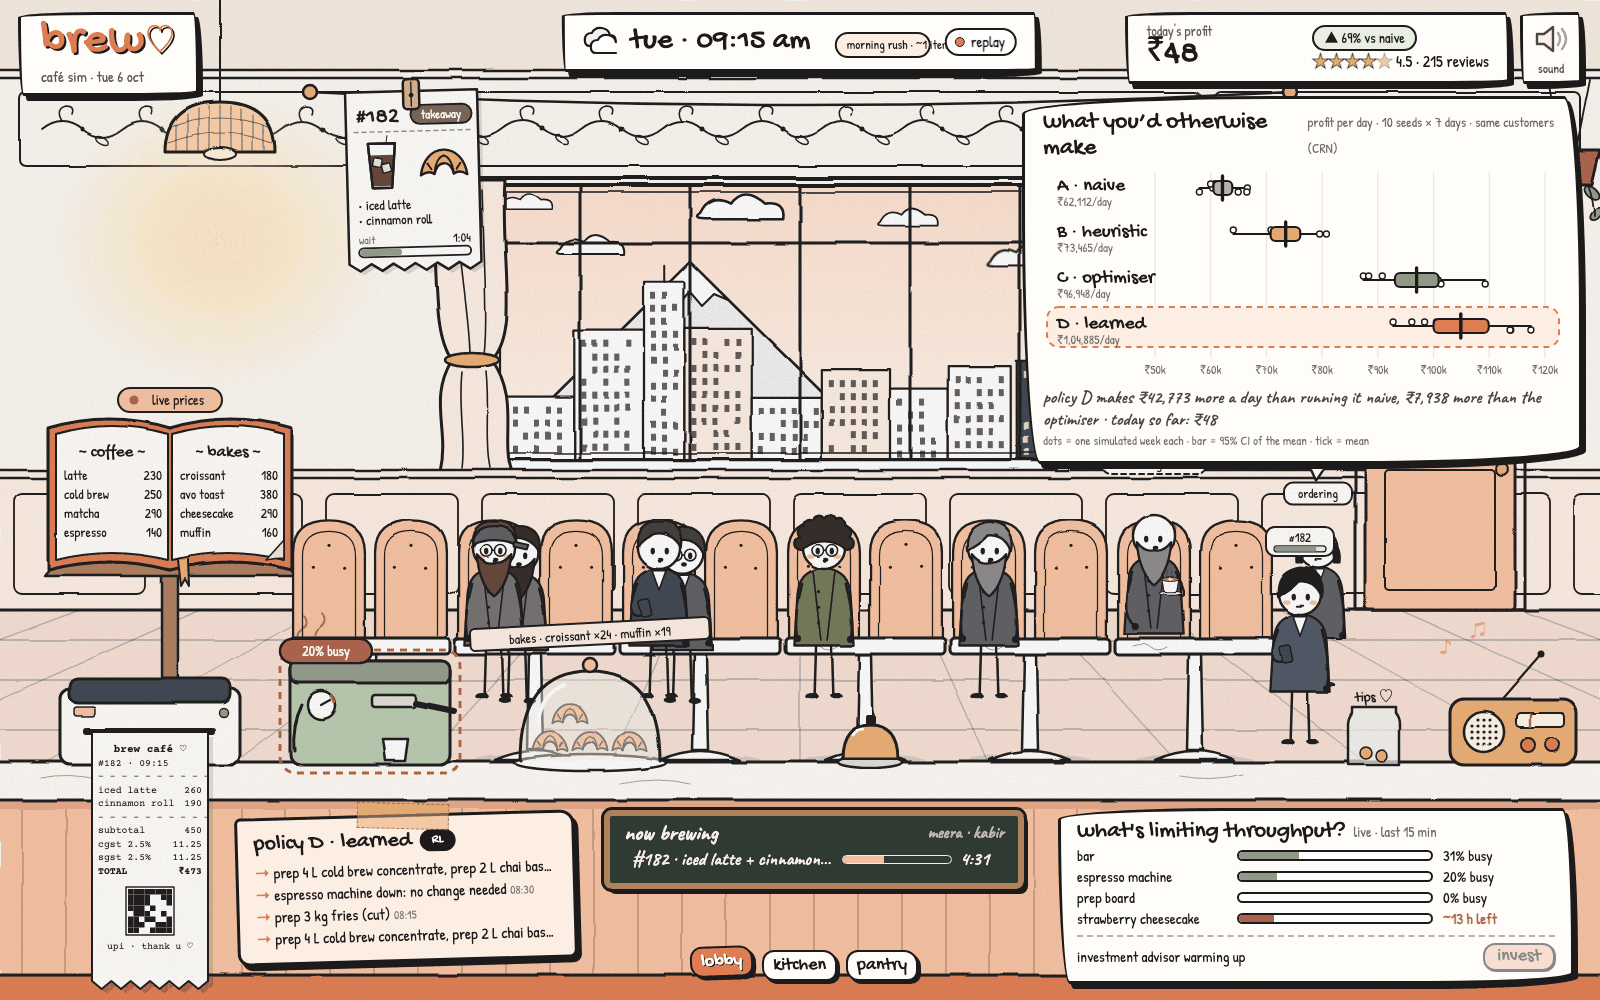
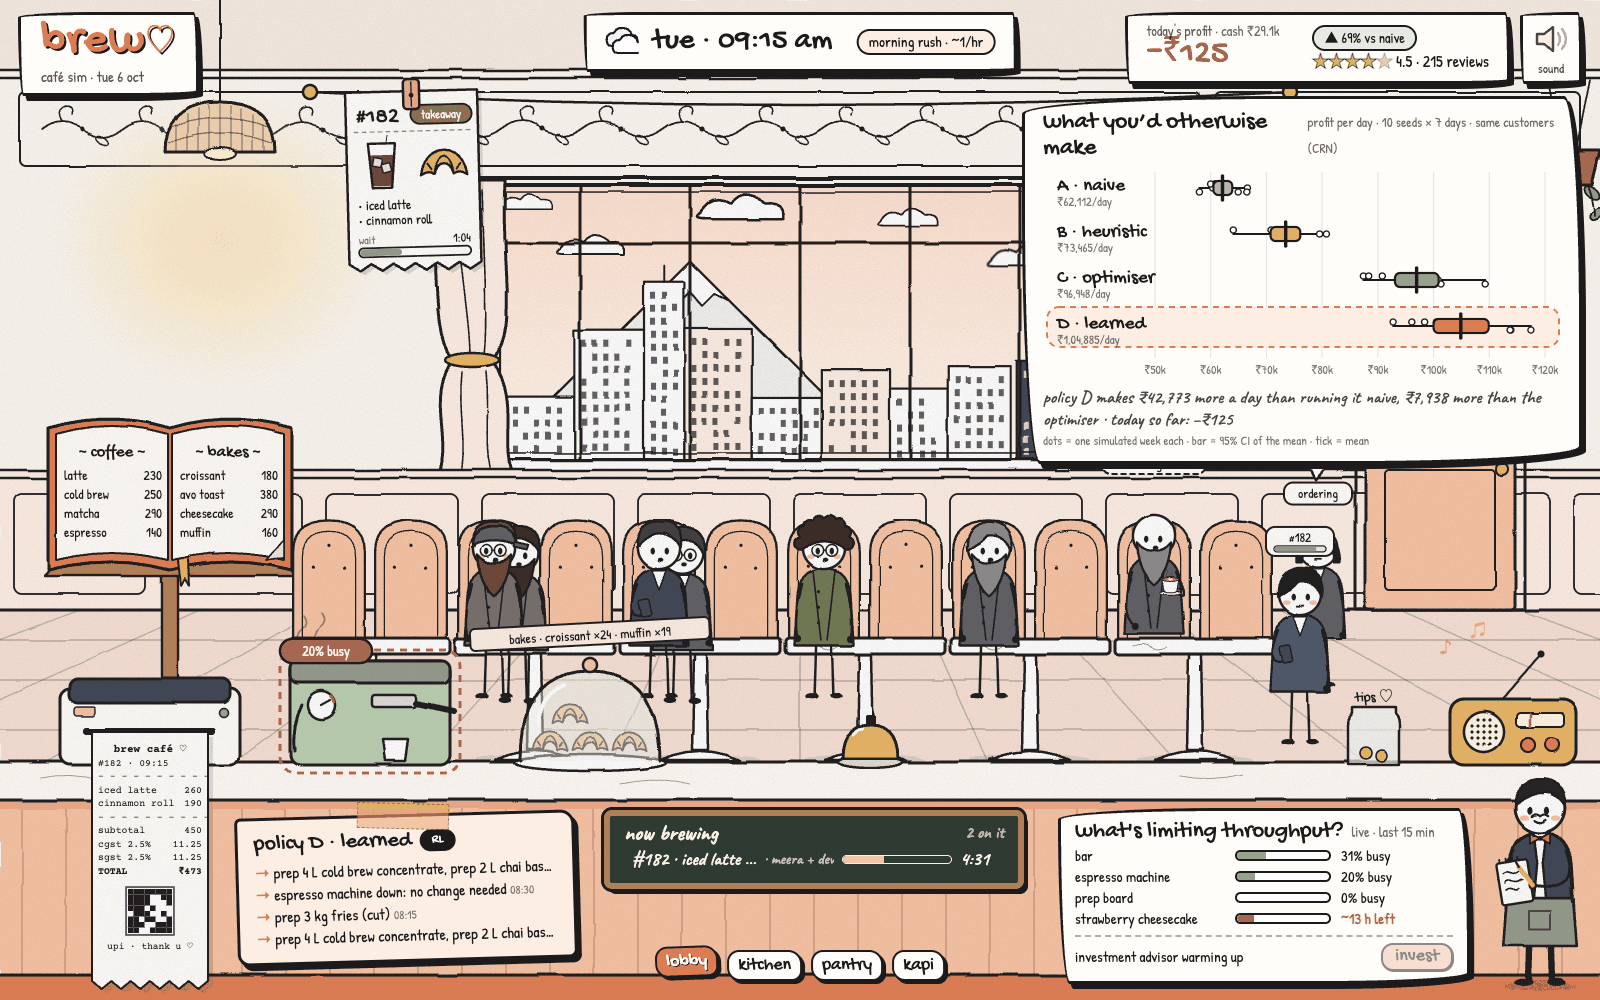
README media regenerated from the current UI (four tabs, the kapi doodle and the rider in the lobby, the HUD without the live pill, cash by the profit), plus a new shot of kapi's room in the screens table; capture script: --channel uses an installed browser, the page is served in-process with a larg

diff --git a/scripts/capture_readme_media.py b/scripts/capture_readme_media.py
@@ -2,8 +2,10 @@
 
     uv run python scripts/capture_readme_media.py            # stills + GIFs
     uv run python scripts/capture_readme_media.py --stills   # stills only
+    uv run python scripts/capture_readme_media.py --channel chrome   # the installed Chrome, no `playwright install`
 
-Stills: the real page (design/brew.html) replaying a golden stream paused at a fixed moment (`speed=0` + `stepTo`),
+Kapi's room is the one live shot: a throwaway backend (scripted waiter, no keys) is started for it. The other
+stills: the real page (design/brew.html) replaying a golden stream paused at a fixed moment (`speed=0` + `stepTo`),
 `?still` (no motion), 1600x1000, saved as 256-colour PNGs. GIFs: the same page with motion on; Python advances the
 replay in fixed sim-time steps per frame (events are deterministic) while the CSS motion runs in real time between
 frames, then Pillow assembles the frames (shared palette, 960 px wide, ~8 fps). No ffmpeg needed. Google Fonts must
@@ -14,10 +16,13 @@ from __future__ import annotations
 
 import argparse
 import io
-import socket
+import os
 import subprocess
-import sys
+import threading
 import time
+import urllib.request
+from functools import partial
+from http.server import SimpleHTTPRequestHandler, ThreadingHTTPServer
 from pathlib import Path
 from typing import Any
 
@@ -34,10 +39,19 @@ def hms(s: str) -> float:
     return int(h) * 3600 + int(m) * 60
 
 
-def free_port() -> int:
-    with socket.socket() as s:
-        s.bind(("127.0.0.1", 0))
-        return int(s.getsockname()[1])
+class Quiet(SimpleHTTPRequestHandler):
+    def log_message(self, *a: Any) -> None:
+        pass
+
+
+class Server(ThreadingHTTPServer):
+    request_queue_size = 128  # the page opens many connections at once; the default backlog (5) resets some
+
+
+def serve() -> Server:
+    srv = Server(("127.0.0.1", 0), partial(Quiet, directory=str(ROOT)))
+    threading.Thread(target=srv.serve_forever, daemon=True).start()
+    return srv
 
 
 def open_page(browser: Any, base: str, fixture: str, still: bool, room: str = "lobby") -> Any:
@@ -92,6 +106,7 @@ def stills(browser: Any, base: str) -> None:
     pg = open_page(browser, base, "lunch_delivery", True, "pantry")
     pg.evaluate(f"BrewLive.source.stepTo({hms('13:30')})")
     pg.wait_for_timeout(800)
+    pg.evaluate("document.querySelectorAll('#viewport > .toast').forEach((x) => x.remove())")  # (a profit milestone)
     save_png(shot(pg), "pantry")
     pg.close()
 
@@ -103,6 +118,37 @@ def stills(browser: Any, base: str) -> None:
     pg.wait_for_timeout(430)
     save_png(shot(pg), "menu_turn")
     pg.close()
+
+
+def kapi(browser: Any) -> None:
+    """Kapi's room needs a café that answers: a throwaway backend (scripted waiter, no keys, no database)."""
+    print("kapi")
+    with ThreadingHTTPServer(("127.0.0.1", 0), Quiet) as probe:
+        port = probe.server_address[1]
+    env = {**os.environ, "BREW_LLM_ENABLED": "0", "BREW_DB_ENABLED": "0", "BREW_HOURS": "00:00-24:00"}
+    api = subprocess.Popen(["uv", "run", "brew-api", "--port", str(port)], cwd=ROOT, env=env,
+                           stdout=subprocess.DEVNULL, stderr=subprocess.DEVNULL)  # fmt: skip
+    base = f"http://127.0.0.1:{port}"
+    try:
+        for _ in range(120):
+            try:
+                urllib.request.urlopen(f"{base}/api/v1/waiter/status", timeout=1)
+                break
+            except OSError:
+                time.sleep(0.5)
+        pg = browser.new_page(viewport=VIEW, device_scale_factor=1)
+        pg.goto(f"{base}/?still#waiter")
+        pg.wait_for_function("window.BrewLive && BrewLive.state && window.BrewWaiter && BrewWaiter.isOpen", timeout=30000)
+        pg.evaluate("document.fonts.ready")
+        pg.wait_for_timeout(1500)
+        for line in ("show me the bakes", "a butter croissant and an oat latte please"):
+            pg.evaluate("(m) => { BrewWaiter.send(m); }", line)
+            pg.wait_for_function("!BrewWaiter.busy", timeout=30000)
+            pg.wait_for_timeout(800)
+        save_png(shot(pg), "kapi")
+        pg.close()
+    finally:
+        api.terminate()
 
 
 def gif_replay(browser: Any, base: str, fixture: str, room: str, start: str, sim_per_frame: float, n: int, name: str, setup: str = "") -> None:
@@ -145,22 +191,21 @@ def gifs(browser: Any, base: str) -> None:
 def main() -> None:
     ap = argparse.ArgumentParser()
     ap.add_argument("--stills", action="store_true", help="stills only")
+    ap.add_argument("--channel", help="use an installed browser (e.g. chrome) instead of Playwright's own Chromium")
     a = ap.parse_args()
     OUT.mkdir(parents=True, exist_ok=True)
-    port = free_port()
-    srv = subprocess.Popen([sys.executable, "-m", "http.server", str(port), "--bind", "127.0.0.1"], cwd=ROOT,
-                           stdout=subprocess.DEVNULL, stderr=subprocess.DEVNULL)  # fmt: skip
-    time.sleep(0.6)
+    srv = serve()
     try:
         with sync_playwright() as p:
-            b = p.chromium.launch()
-            base = f"http://127.0.0.1:{port}"
+            b = p.chromium.launch(channel=a.channel)
+            base = f"http://127.0.0.1:{srv.server_address[1]}"
             stills(b, base)
+            kapi(b)
             if not a.stills:
                 gifs(b, base)
             b.close()
     finally:
-        srv.terminate()
+        srv.shutdown()
 
 
 if __name__ == "__main__":

diff --git a/README.md b/README.md
@@ -46,8 +46,8 @@ statement.
 | **Pantry**: every lot with its freshness, FEFO arrows, days of cover, the waste chart against naive, and the policy's own purchase order to approve. | **Menu book**: flies off the lectern with real 3D page turns; live prices are struck through in ink and rewritten; meal combos and the rescue shelf have their own spreads. |
 | ![the profit card expanded into the policy comparison](docs/images/comparison.png) | ![the kitchen GIF](docs/images/kitchen_chaos.gif) |
 | **What you'd otherwise make**: click today's profit and it unfolds into D vs A/B/C: one dot per simulated week, 95 % CI of the mean. | **Chaos, live**: the machine breaks at 08:30, the station LEDs and crew react, the re-plan lands within seconds. |
-
-<div align="center"><img src="docs/images/menu_book.gif" width="70%" alt="the owner's 09:00 price change rewritten in the open menu book, then a page turn" /></div>
+| ![kapi's room: the waiter, his speech bubble and the bakes on the board as cards](docs/images/kapi.png) | ![the owner's 09:00 price change rewritten in the open menu book, then a page turn](docs/images/menu_book.gif) |
+| **Kapi, the waiter**: a room of his own (the 4th tab). Ask for the bakes and they go on the board as cards you can tap to order; order in words and he writes the ticket for the rail. | **Prices, rewritten live**: the owner's 09:00 price change is struck through and re-inked in the open menu book, then a page turn. |
 
 ## The decision stack
 
